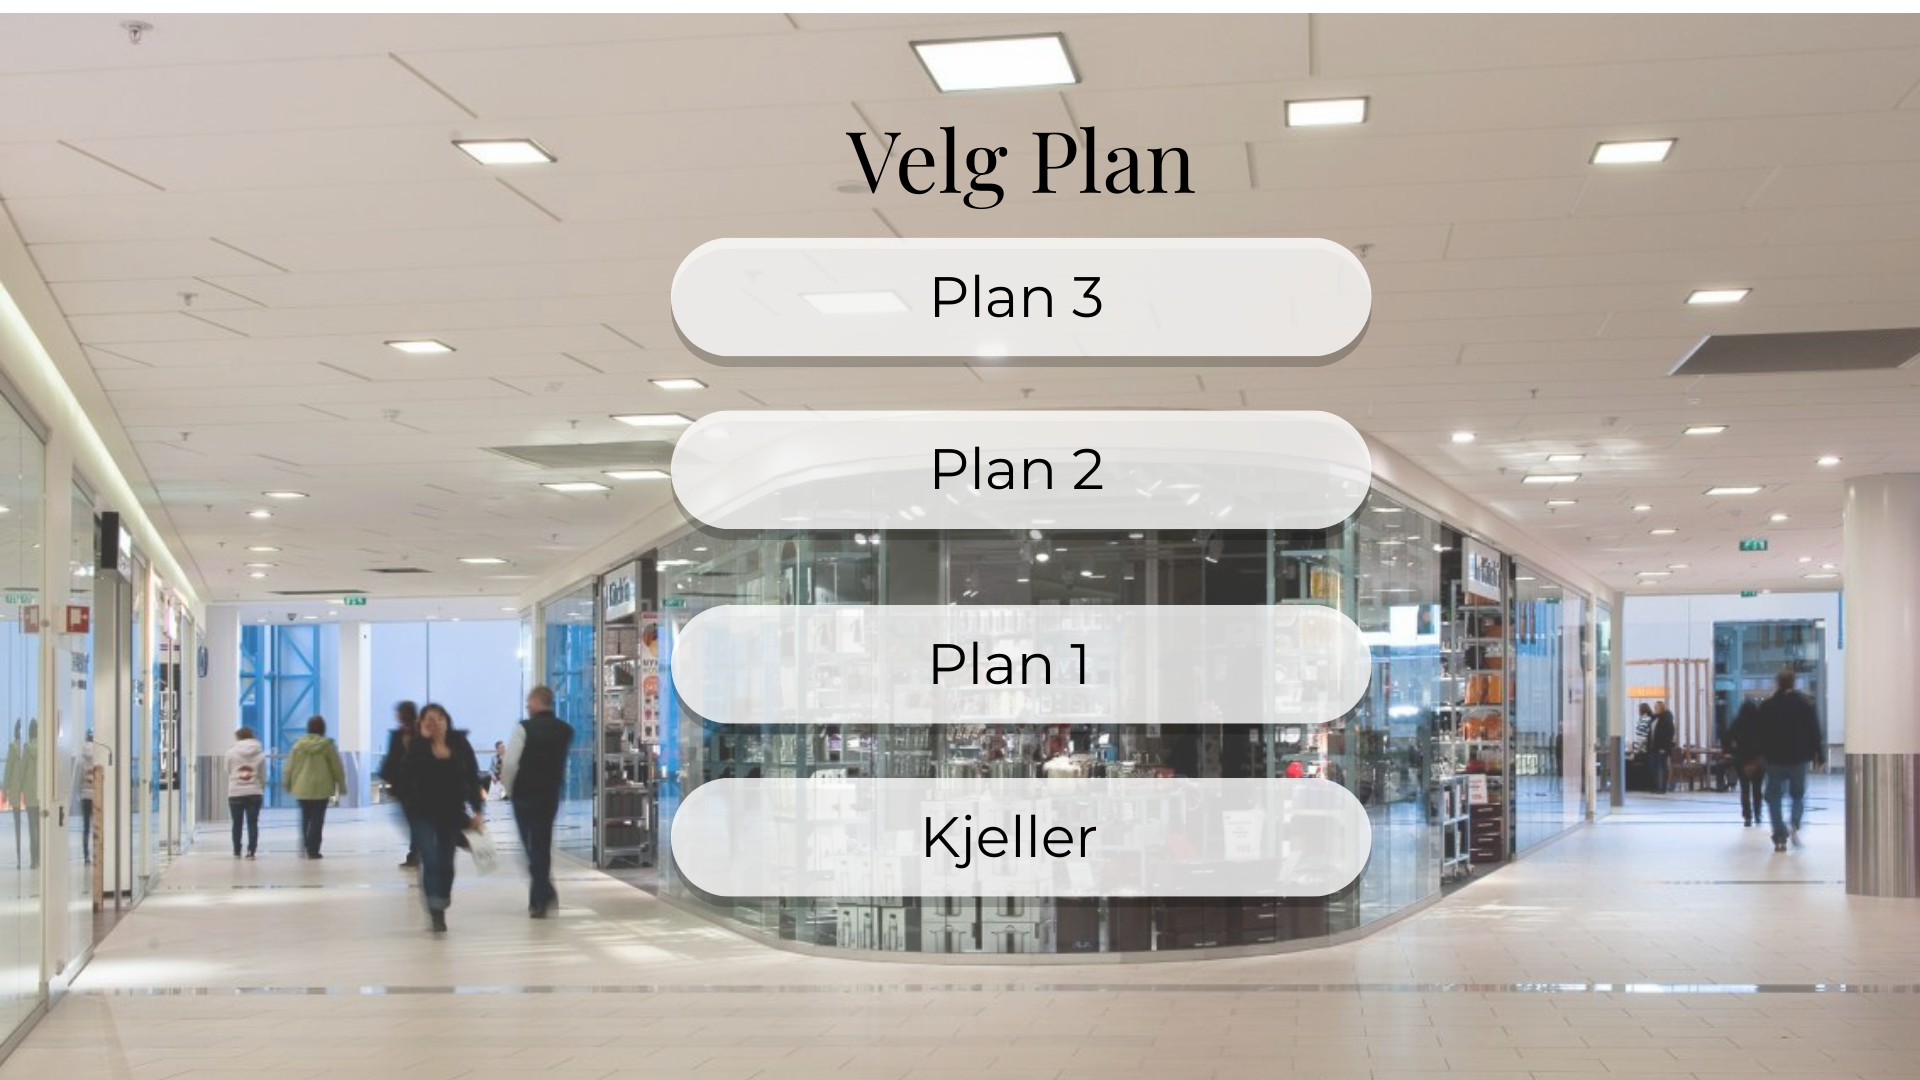
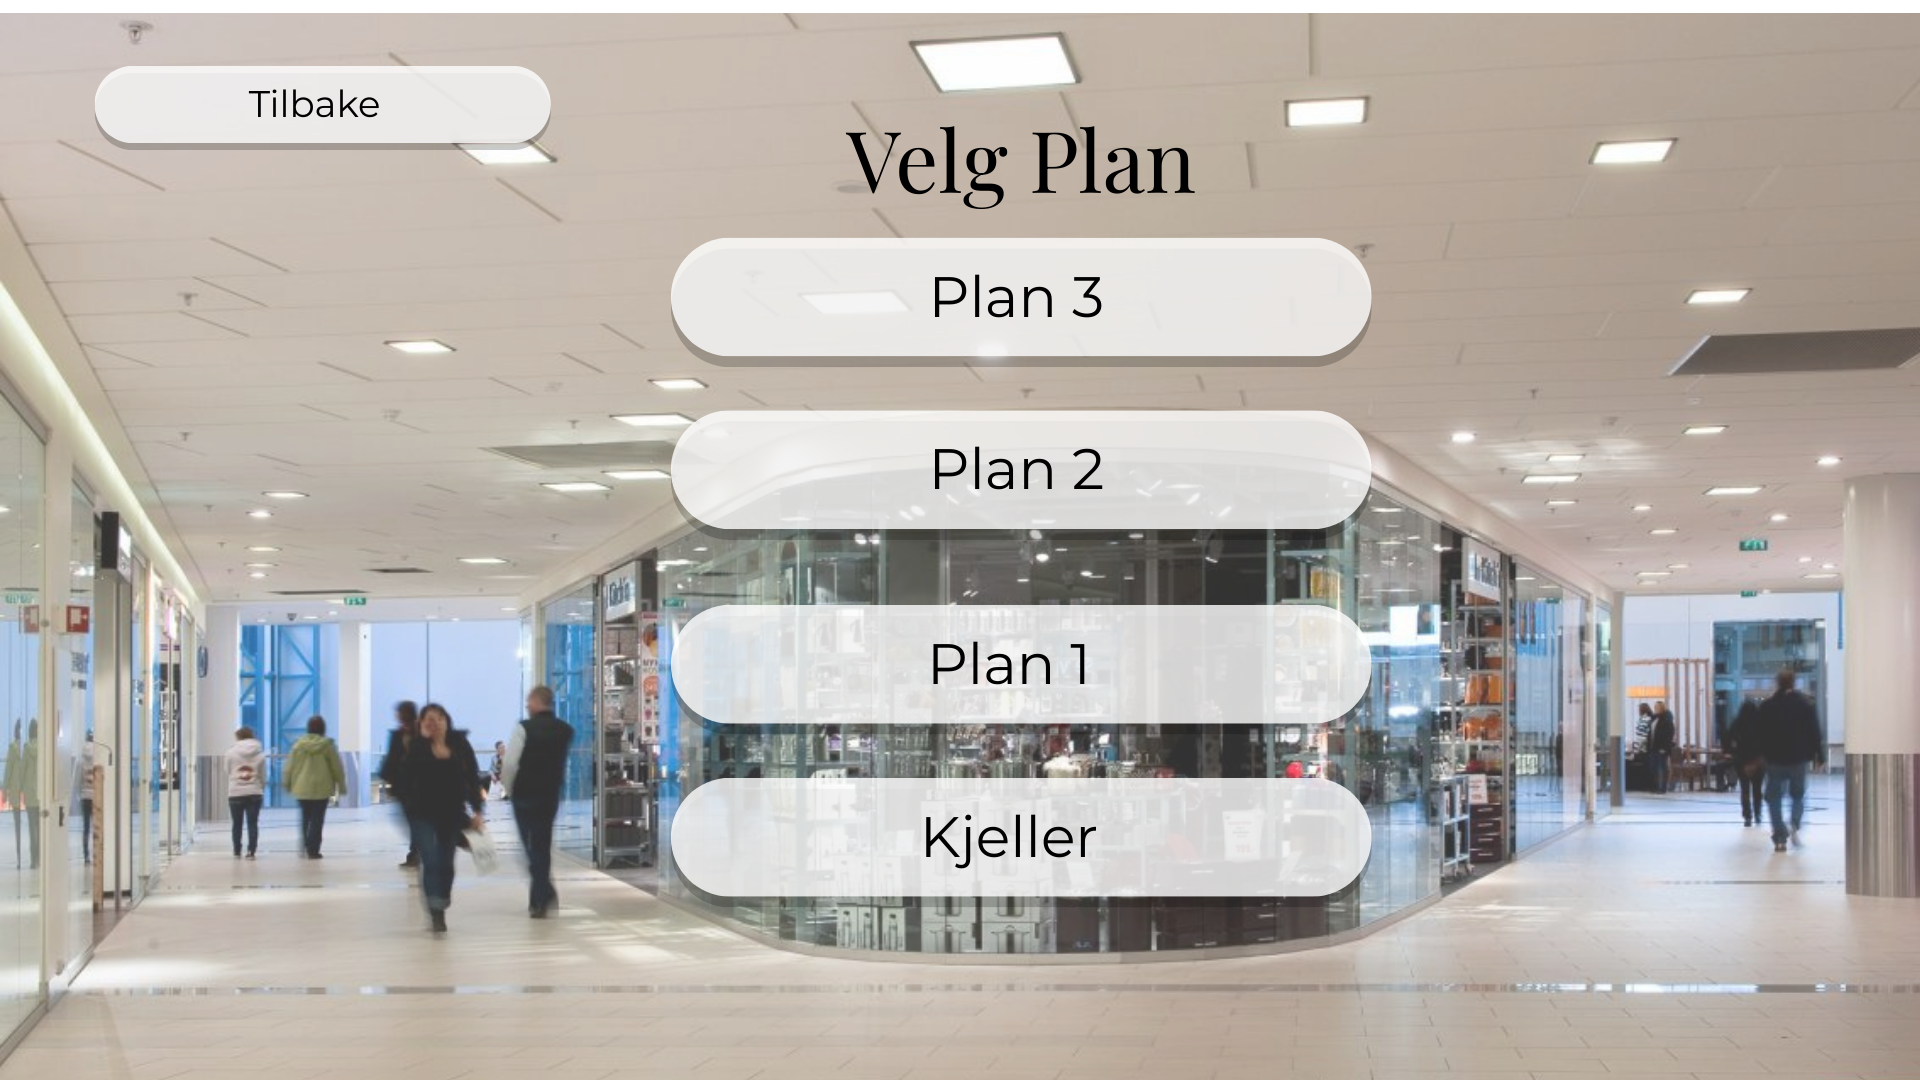
patch5

Changed region(s): [[0.0312, 0.0611, 0.3125, 0.1528]]

diff --git a/app.js b/app.js
@@ -12,6 +12,8 @@ const ASSETS = {
   menu: "assets/menu.png",
   floors: "assets/floors.png",
   map1: "assets/map1.png",
+  map2: "assets/map2.png",
+  map3: "assets/map3.png",
   tech_map1: "assets/tech_map1.png",
 };
 
@@ -42,11 +44,18 @@ const SCREENS = {
     pulses: []
   },
   floors: {
-    bg: ASSETS.floors,
-    hotspots: [
-      { id: "back_to_menu", x: 0.532, y: 0.779, w: 0.372, h: 0.101, go: "menu", label: "Back" },
-      { id: "to_map1", x: 0.532, y: 0.618, w: 0.372, h: 0.101, go: "map1", label: "Map 1" }
-    ],
+  bg: ASSETS.floors,
+  hotspots: [
+    { id: "back_to_menu", x: 0.532, y: 0.779, w: 0.372, h: 0.101, go: "menu" },
+
+    { id: "to_map1", x: 0.532, y: 0.618, w: 0.372, h: 0.101, go: "map1" },
+
+    { id: "to_map2", x: 0.532, y: 0.470, w: 0.372, h: 0.101, go: "map2" },
+
+    { id: "to_map3", x: 0.532, y: 0.322, w: 0.372, h: 0.101, go: "map3" }
+  ],
+  pulses: []
+},
     pulses: []
   },
   map1: {
@@ -72,7 +81,16 @@ const SCREENS = {
       { id: "telia", x: 0.306, y: 0.258 },
       { id: "telenor", x: 0.52, y: 0.516 }
     ]
+    HOTSPOTS.map2 = [
+  { id:"to_map1", x:0.92, y:0.12, w:0.07, h:0.06, go:"map1" },
+  { id:"to_map3", x:0.92, y:0.20, w:0.07, h:0.06, go:"map3" },
+];
+
+HOTSPOTS.map3 = [
+  { id:"to_map1", x:0.92, y:0.12, w:0.07, h:0.06, go:"map1" },
+  { id:"to_map2", x:0.92, y:0.20, w:0.07, h:0.06, go:"map2" },
   }
+
 };
 
 let SLOT_NAMES = ["slot1","slot2","slot3"];
